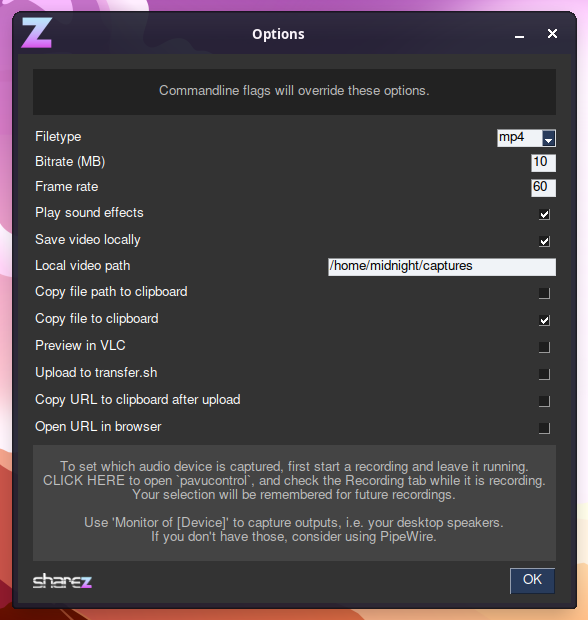
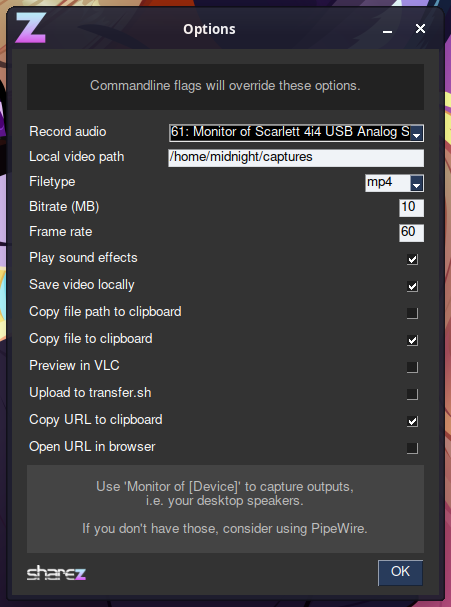
Built-in audio device selection

diff --git a/capture.py b/capture.py
@@ -13,10 +13,18 @@ import signal
 import PySimpleGUI as sg
 import subprocess
 import webbrowser
+import re
+
+print(
+    "\n"
+    "                       sharez\n"
+    "              made with <3 by deltaryz\n"
+    "                    deltaryz.com\n")
+
 
 # DO NOT EDIT THIS VALUE
 # Config located at ~/.config/sharez
-configVersion = 1.0
+configVersion = 1.1
 
 # TODO: gif option
 # TODO: Option for whether File, Path, or URL should be copied to clipboard
@@ -36,7 +44,7 @@ currentSettings = {
     "filetype": "mp4",
     "bitrate": "10",
     "framerate": "60",
-    "audio": True,
+    "audio": "default",
     "playsfx": True,
     "save": True,
     "savepath": os.path.expanduser("~/Videos"),
@@ -61,18 +69,22 @@ if not os.path.exists(configPath):
         json.dump(currentSettings, json_file)
 else:
     # We do have a config, load it
-    print("Loading user config...")
+    print("Loading user config...\n")
 
     with open(configPath, 'r') as json_file:
         # Check if we need to update the config
         temp = json.load(json_file)
         if "configversion" not in temp:
             temp["configversion"] = "0"  # force update
-        if temp["configversion"] != currentSettings["configversion"]:
+        if temp["configversion"] < currentSettings["configversion"]:
             # Yes, config needs updating
             print(
                 f"Config outdated ({temp['configversion']}). Updating to {currentSettings['configversion']}...")
             newVersion = currentSettings["configversion"]
+            if newVersion >= 1.1:
+                # Patch audio device
+                print("1.0 -> 1.1 audio device default patch applied")
+                temp['audio'] = "default"
             # Load all existing options
             for setting in temp:
                 currentSettings[setting] = temp[setting]
@@ -93,8 +105,8 @@ for setting in overriddenSettings:
     # We will set this true when detecting command flags
     overriddenSettings[setting] = False
 
-print(currentSettings)
-print()
+# print(currentSettings)
+# print()
 
 # Get screen size
 screen_width, screen_height = sg.Window.get_screen_size()
@@ -117,6 +129,53 @@ def sfx(sound, sync):
             threading.Thread(target=playsound, args=(
                 sound,), daemon=True).start()
 
+
+# Figure out audio device names
+cmd = ("pactl list sources | grep 'Description'")
+names = subprocess.check_output(cmd, text=True, shell=True)
+# Split the string into lines
+lines = names.strip().split('\n')
+new_lines = [line.replace('Description: ', '').strip() for line in lines]
+
+# Figure out audio device pulse IDs
+cmd2 = ("pactl list short sources")
+nums = subprocess.check_output(cmd2, text=True, shell=True)
+# Truncate
+# Define the regular expression pattern to match numbers at the beginning of a string
+pattern = r'^\s*(\d+)'
+# Extract numbers from each line and store them in a list
+numbers_list = []
+for line in nums.split('\n'):
+    match = re.findall(pattern, line)
+    if match:
+        numbers_list.append(match[0])
+
+# there's a lot of redundant crap down here... i struggled a little with the implementation here.
+# TODO: clean this
+
+audioDevices = dict(zip(numbers_list, new_lines))
+
+audioDeviceList = {}
+audioDeviceNames = []
+for key in audioDevices:
+    audioDeviceList[key] = f"{key}: {audioDevices[key]}"
+    audioDeviceNames.append(audioDeviceList[key])
+
+audioDeviceList["default"] = "ALSA Default"
+audioDeviceList["disabled"] = "Disabled"
+audioDeviceNames.append("ALSA Default")
+audioDeviceNames.append("Disabled")
+
+# Check if our autoloaded audio device still exists
+if currentSettings['audio'] not in audioDeviceList:
+    badDevice = currentSettings['audio']
+    currentSettings['audio'] = 'default'  # set to default so it doesnt error
+    # Shove that back into config
+    with open(configPath, 'w') as json_file:
+        print(
+            f"Audio device {badDevice} not detected, resetting to default.\n")
+        json.dump(currentSettings, json_file)
+        savedSettings = currentSettings.copy()
 
 # Get current time for video filename
 filename = strftime("%Y-%m-%d_%H.%M.%S", localtime()) + \
@@ -150,7 +209,7 @@ for arg in sys.argv:
         currentSettings['copyfile'] = str2bool(arg.split("=", 1)[1])
     if "--audio=" in arg:  # Don't record audio
         overriddenSettings['audio'] = True
-        currentSettings['audio'] = str2bool(arg.split("=", 1)[1])
+        _, currentSettings['audio'] = arg.split("=", 1)
     if "--soundfx=" in arg:  # Don't play sounds
         overriddenSettings['playsfx'] = True
         currentSettings['playsfx'] = str2bool(arg.split("=", 1)[1])
@@ -172,9 +231,9 @@ for arg in sys.argv:
         _, framerate = arg.split("=", 1)
         currentSettings['framerate'] = framerate
 
-print("Effective config after processing flags:")
-print(currentSettings)
-print()
+# print("Effective config after processing flags:")
+# print(currentSettings)
+# print()
 
 # Create the output folder if it does not exist
 if not os.path.exists(currentSettings['savepath']):
@@ -186,6 +245,8 @@ print(f"Directory:               {currentSettings['savepath']}")
 print(f"Format:                  {currentSettings['filetype']}")
 print("Bitrate:                 " + currentSettings['bitrate'])
 print("Framerate:               " + currentSettings['framerate'])
+print("Audio device:            " + audioDeviceList[currentSettings['audio']])
+print()
 
 # Use slop to select a region
 region = subprocess.check_output("slop", text=True, shell=True)
@@ -222,13 +283,19 @@ command = ("ffmpeg "
            )
 
 # only record audio if the user has that enabled
-if currentSettings['audio']:
-    command += (
-        "-f alsa -thread_queue_size 512 "
-        "-i default "
-    )
+if currentSettings['audio'] != "disabled":
+    if currentSettings['audio'] == "default":
+        command += (
+            "-f alsa -thread_queue_size 512 "
+            "-i default "
+        )
+    else:
+        # use pulseaudio device ID from `pactl list short sources`
+        command += (
+            "-f pulse -thread_queue_size 512 "
+            f"-i {currentSettings['audio']} "
+        )
 
-# TODO: Make this actually use the bitrate we have set
 
 if currentSettings['filetype'] == "webm":
     command += (
@@ -246,7 +313,7 @@ command += (
     f"-y \"{currentSettings['savepath']}/{filename}\""
 )
 
-print(f"\nRunning command:         {command}\n")
+print(f"\nRunning command:         {command}\n\n-- -- -- -- --\n")
 
 # Start ffmpeg
 ffmpeg = subprocess.Popen(command, shell=True, preexec_fn=os.setsid)
@@ -258,6 +325,11 @@ locationY = int(offset[1]) + int(size[1]) + 10
 # Move toolbar above region if it's near the bottom
 if locationY > screen_height - 50:
     locationY = int(offset[1]) - 40
+
+# If it's now less than 0 just put it in the corner lol
+# TODO: Intelligently handle this on both axes
+if locationY < 0:
+    locationY = 0
 
 sg.theme_background_color('#333333')
 
@@ -302,6 +374,16 @@ match event:
                 [sg.Text("\nCommandline flags will override these options.",
                          background_color="#222222", pad=(5, 10), expand_x=True, justification="center", text_color="#BFBFBF", size=(None, 3))]
             ],
+            [  # Record audio
+                [sg.Text("Record audio", background_color="#333333", expand_x=True),
+                 sg.Combo(audioDeviceNames, background_color="#FFFFFF", size=(34, None), default_value=audioDeviceList[savedSettings['audio']], readonly=True, key="audio")]
+            ],
+            [  # Path to save
+                # TODO: Validate this and make sure it resolves
+                # TODO: Browse button with file picker dialog
+                [sg.Text("Local video path        ", background_color="#333333", expand_x=True),
+                 sg.InputText(key="savepath", size=(36, None), default_text=savedSettings['savepath'])]
+            ],
             [  # Filetype
                 [sg.Text("Filetype", background_color="#333333", expand_x=True),
                  sg.Combo(['webm', 'mp4'], size=(6, None), default_value=savedSettings['filetype'], key='filetype', readonly=True)],
@@ -319,19 +401,9 @@ match event:
                 [sg.Text("Play sound effects", background_color="#333333", expand_x=True),
                  sg.Checkbox("", default=savedSettings['playsfx'], key="playsfx", background_color="#333333")]
             ],
-            [  # Record audio
-                [sg.Text("Record audio", background_color="#333333", expand_x=True),
-                 sg.Checkbox("", default=savedSettings['audio'], key="audio", background_color="#333333")]
-            ],
             [  # Save video file locally
                 [sg.Text("Save video locally", background_color="#333333", expand_x=True),
                  sg.Checkbox("", default=savedSettings['save'], key="save", background_color="#333333")]
-            ],
-            [  # Path to save
-                # TODO: Validate this and make sure it resolves
-                # TODO: Browse button with file picker dialog
-                [sg.Text("Local video path        ", background_color="#333333", expand_x=True),
-                 sg.InputText(key="savepath", size=(32, None), default_text=savedSettings['savepath'])]
             ],
             [  # Copy file path to clipboard
                 [sg.Text("Copy file path to clipboard", background_color="#333333", expand_x=True),
@@ -351,7 +423,7 @@ match event:
                  sg.Checkbox("", default=savedSettings['upload'], key="upload", background_color="#333333")]
             ],
             [  # Copy URL to clipboard after upload
-                [sg.Text("Copy URL to clipboard after upload", background_color="#333333", expand_x=True),
+                [sg.Text("Copy URL to clipboard", background_color="#333333", expand_x=True),
                  sg.Checkbox("", default=savedSettings['copyurl'], key="copyurl", background_color="#333333")]
             ],
             [  # Open URL in browser
@@ -364,12 +436,11 @@ match event:
             #      sg.Combo(['Audio1', 'Audio2'], default_value='Audio1', key='audiodevice', readonly=True)],
             # ],
             [
-                sg.Text("\nTo set which audio device is captured, first start a recording and leave it running.\n"
-                        "  CLICK HERE to open `pavucontrol`, and check the Recording tab while it is recording.  \n"
-                        "Your selection will be remembered for future recordings.\n\n"
-                        "Use 'Monitor of [Device]' to capture outputs, i.e. your desktop speakers.\n"
-                        "If you don't have those, consider using PipeWire.\n",
-                        background_color="#444444", text_color="#BFBFBF", justification="center", key="pavucontrol", enable_events=True)
+                sg.Text(
+                    "\nUse 'Monitor of [Device]' to capture outputs,\n"
+                    "i.e. your desktop speakers.\n\n"
+                    "If you don't have those, consider using PipeWire.\n",
+                    background_color="#444444", expand_x=True, text_color="#BFBFBF", justification="center", key="pavucontrol", enable_events=True)
             ],
             [
                 sg.Image(
@@ -394,13 +465,22 @@ match event:
 
                 for value in values:
                     savedSettings[value] = values[value]
+
+                    # special handling for the audio dropdown
+                    if value == "audio":
+                        for key in audioDeviceList:
+                            # working in reverse, finding the key that matches the value
+                            if audioDeviceList[key] == values[value]:
+                                savedSettings[value] = key
+
+                print()
                 print(savedSettings)
 
                 # Write everything back into config
                 with open(configPath, 'w') as json_file:
                     json.dump(savedSettings, json_file)
 
-                print("Config written to file.\n")
+                print("\nConfig written to file.\n")
 
                 break
             elif event == 'source':

diff --git a/README.md b/README.md
@@ -58,10 +58,13 @@ All of these parameters are configurable in the GUI settings menu, and saved in 
   * Supported formats: `.webm`, `.mp4`
   * Default filename: `$(date '+%Y-%m-%d_%H.%M.%S').mp4`
   * Extension is optional, if omitted will use saved setting
+* `--audio=default` - record audio
+  * Supports pulseaudio device IDs obtained with `pactl list short sources`
+  * `default` uses ALSA default, can be configured with `pavucontrol`
+  * Can be `disabled`
 * `--path=/home/example` - path to save video
 * `--save=true` - keep local recording after script finishes
 * `--soundfx=true` - play sound effects
-* `--audio=true` - record audio
 * `--copy-path=false` - copy file path to clipboard
 * `--copy-file=true` - copy file to clipboard
 * `--upload=false` - upload to transfer.sh
